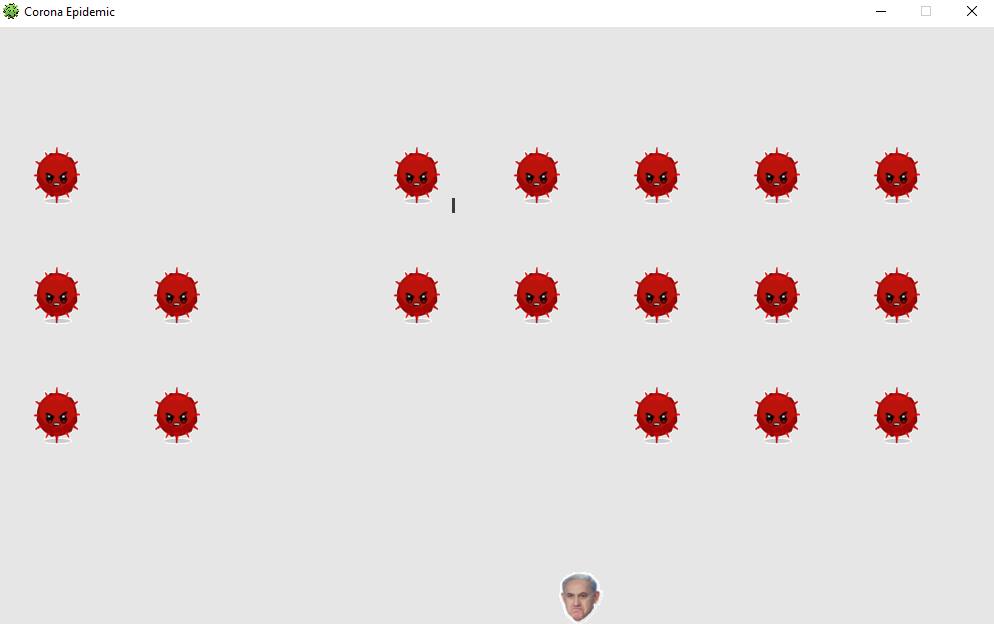
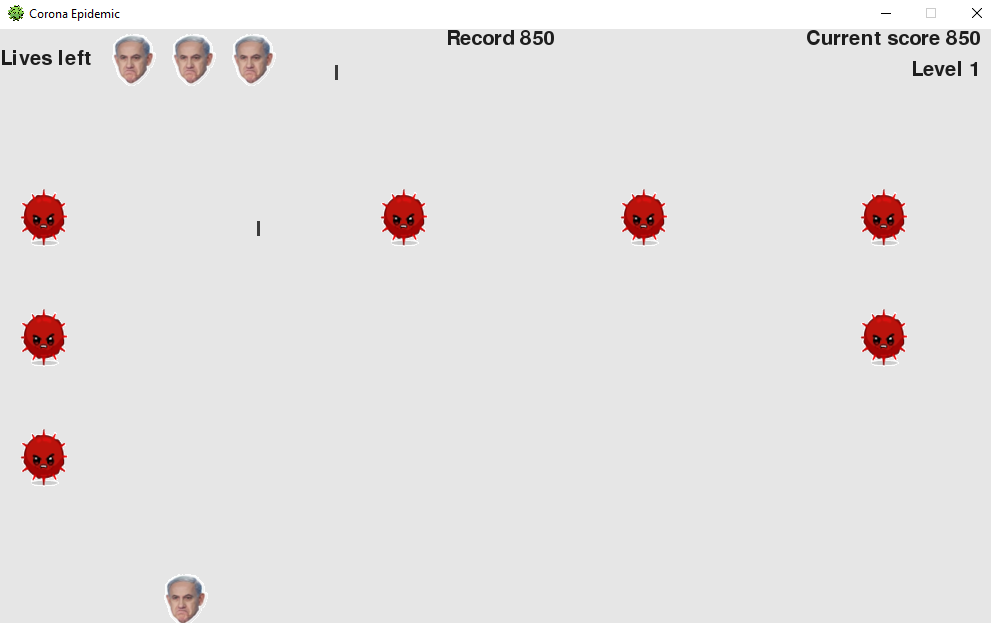
Added lives support and changed some layout

diff --git a/game_functions.py b/game_functions.py
@@ -58,7 +58,11 @@ def check_play_button(ai_settings, screen, stats, sb, play_button, shooter, covi
         stats.reset_stats()
         stats.game_active = True
 
+        # Reset the scoreboard images.
         sb.prep_score()
+        sb.prep_high_score()
+        sb.prep_level()
+        sb.prep_shooters()
 
         # Empty the list of covids and bullets
         covids.empty()
@@ -91,9 +95,14 @@ def check_bullet_covid_collisions(ai_settings, screen, stats, sb, shooter, covid
         check_high_score(stats, sb)
 
     if len(covids) == 0:
-        # Destroy existing bullets, speed up game, and create new fleet.
+        # If the entire fleet is destroyed, start a new level.
         bullets.empty()
         ai_settings.increase_speed()
+
+        # Increase level.
+        stats.level += 1
+        sb.prep_level()
+
         create_fleet(ai_settings, screen, shooter, covids)
 
 
@@ -152,11 +161,14 @@ def create_fleet(ai_settings, screen, shooter, covids):
         for covid_number in range(number_covids_x):
             create_covid(ai_settings, screen, covids, covid_number, row_number)
 
-def shooter_hit(ai_settings, stats, screen, shooter, covids, bullets):
+def shooter_hit(ai_settings, screen, stats, sb, shooter, covids, bullets):
     """Respond to shooter being hit by covid."""
-    if stats.shooter_left > 0:
+    if stats.shooters_left > 0:
         # Decrement shooter_left.
-        stats.shooter_left -= 1
+        stats.shooters_left -= 1
+
+        # Update scoreboard.
+        sb.prep_shooters()
 
         # Empty the list of covids and bullets.
         covids.empty()
@@ -173,16 +185,16 @@ def shooter_hit(ai_settings, stats, screen, shooter, covids, bullets):
         pygame.mouse.set_visible(True)
 
 
-def check_covids_bottom(ai_settings, stats, screen, shooter, covids, bullets):
+def check_covids_bottom(ai_settings, screen, stats, sb, shooter, covids, bullets):
     """Check if any covids have reached the bottom of the screen."""
     screen_rect = screen.get_rect()
     for covid in covids.sprites():
         if covid.rect.bottom >= screen_rect.bottom:
             # Treat this the same as if the shooter got hit.
-            shooter_hit(ai_settings, stats, screen, shooter, covids, bullets)
+            shooter_hit(ai_settings, screen, stats, sb, shooter, covids, bullets)
             break
 
-def update_covids(ai_settings, stats, screen, shooter, covids, bullets):
+def update_covids(ai_settings, screen, stats, sb, shooter, covids, bullets):
     """Check if the fleet is at an edge,
      and then update the positions of all aliens in the fleet."""
     check_fleet_edges(ai_settings, covids)
@@ -190,14 +202,10 @@ def update_covids(ai_settings, stats, screen, shooter, covids, bullets):
 
     # Look for covid-shooter collisions
     if pygame.sprite.spritecollideany(shooter, covids):
-        shooter_hit(ai_settings, stats, screen, shooter, covids, bullets)
-
-    # Look for covid-shooter collisions.
-    if pygame.sprite.spritecollideany(shooter, covids):
-        print("YOU GOT HIT!")
+        shooter_hit(ai_settings, screen, stats, sb, shooter, covids, bullets)
 
     # Look for covids hitting the bottom of the screen.
-    check_covids_bottom(ai_settings, stats, screen, shooter, covids, bullets)
+    check_covids_bottom(ai_settings, screen, stats, sb, shooter, covids, bullets)
 
 def check_fleet_edges(ai_settings, covids):
     """Respond appropriately if any covids have reached an edge."""

diff --git a/scoreboard.py b/scoreboard.py
@@ -1,4 +1,6 @@
 import pygame.ftfont
+from pygame.sprite import Group
+from shooter import Shooter
 
 class Scoreboard():
     """A class to report scoring information."""
@@ -12,17 +14,19 @@ class Scoreboard():
 
         # Font settings for scoring information.
         self.text_color = (30, 30, 30)
-        self.font = pygame.font.SysFont(None, 48)
+        self.font = pygame.font.SysFont(None, 30)
 
         # Prepare the initial score image.
         self.prep_score()
         self.prep_high_score()
+        self.prep_level()
+        self.prep_shooters()
 
     def prep_score(self):
         """Turn the acore into a rendered image."""
         rounded_score = round(self.stats.score, -1)
         score_str = "{:,}".format(rounded_score)
-        self.score_image = self.font.render(score_str, True, self.text_color, self.ai_settings.bg_color)
+        self.score_image = self.font.render("Current score " + score_str, True, self.text_color, self.ai_settings.bg_color)
 
         # Display the score at the top right of the screen
         self.score_rect = self.score_image.get_rect()
@@ -33,14 +37,43 @@ class Scoreboard():
         """Turn the high score into a rendered image."""
         high_score = round(self.stats.high_score, -1)
         high_score_str = "{:,}".format(high_score)
-        self.high_score_image = self.font.render(high_score_str, True, self.text_color, self.ai_settings.bg_color)
+        self.high_score_image = self.font.render("Record " + high_score_str, True, self.text_color, self.ai_settings.bg_color)
 
         # Center the high score at the top of the screen.
         self.high_score_rect = self.high_score_image.get_rect()
         self.high_score_rect.centerx = self.screen_rect.centerx
         self.high_score_rect.top = self.score_rect.top
 
+    def prep_level(self):
+        """Turn the level into a rendered image."""
+        self.level_image = self.font.render("Level " + str(self.stats.level), True, self.text_color, self.ai_settings.bg_color)
+
+        # Position the level below the score.
+        self.level_rect = self.level_image.get_rect()
+        self.level_rect.right = self.score_rect.right
+        self.level_rect.top = self.score_rect.bottom + 10
+
+    def prep_shooters(self):
+        """Show how many shooters are left."""
+        self.shooters = Group()
+        self.lives_image = self.font.render("Lives left", True, self.text_color,
+                                            self.ai_settings.bg_color)
+        self.lives_rect = self.lives_image.get_rect()
+        self.lives_rect.x = 0
+        self.lives_rect.y = 20
+
+        for shooter_number in range(self.stats.shooters_left):
+            shooter = Shooter(self.ai_settings, self.screen)
+            shooter.rect.x = 100 + shooter_number * shooter.rect.width
+            shooter.rect.y = 0
+            self.shooters.add(shooter)
+
     def show_score(self):
-        """Draw score to the screen."""
+        """Draw scores and shooters to the screen."""
         self.screen.blit(self.score_image, self.score_rect)
         self.screen.blit(self.high_score_image, self.high_score_rect)
+        self.screen.blit(self.level_image, self.level_rect)
+        self.screen.blit(self.lives_image, self.lives_rect)
+
+        # Draw shooters.
+        self.shooters.draw(self.screen)

diff --git a/corona_epidemic.py b/corona_epidemic.py
@@ -45,7 +45,7 @@ def run_game():
         if stats.game_active:
             shooter.update()
             gf.update_bullets(ai_settings, screen, stats, sb, shooter, covids, bullets)
-            gf.update_covids(ai_settings, stats, screen, shooter, covids, bullets)
+            gf.update_covids(ai_settings, screen, stats, sb, shooter, covids, bullets)
 
         gf.update_screen(ai_settings, screen, stats, sb, shooter, covids, bullets, play_button)
 

diff --git a/shooter.py b/shooter.py
@@ -1,9 +1,11 @@
 import pygame
+from pygame.sprite import Sprite
 
-class Shooter():
+class Shooter(Sprite):
 
     def __init__(self, ai_settings, screen):
         """Initializing the shooter and set its starting position."""
+        super(Shooter, self).__init__()
         self.screen = screen
         self.ai_settings = ai_settings
 

diff --git a/game_stats.py b/game_stats.py
@@ -14,5 +14,6 @@ class GameStats():
 
     def reset_stats(self):
         """Initialize statistics that can change during the game."""
-        self.shooter_left = self.ai_settings.shooter_limit
+        self.shooters_left = self.ai_settings.shooter_limit
         self.score = 0
+        self.level = 1
